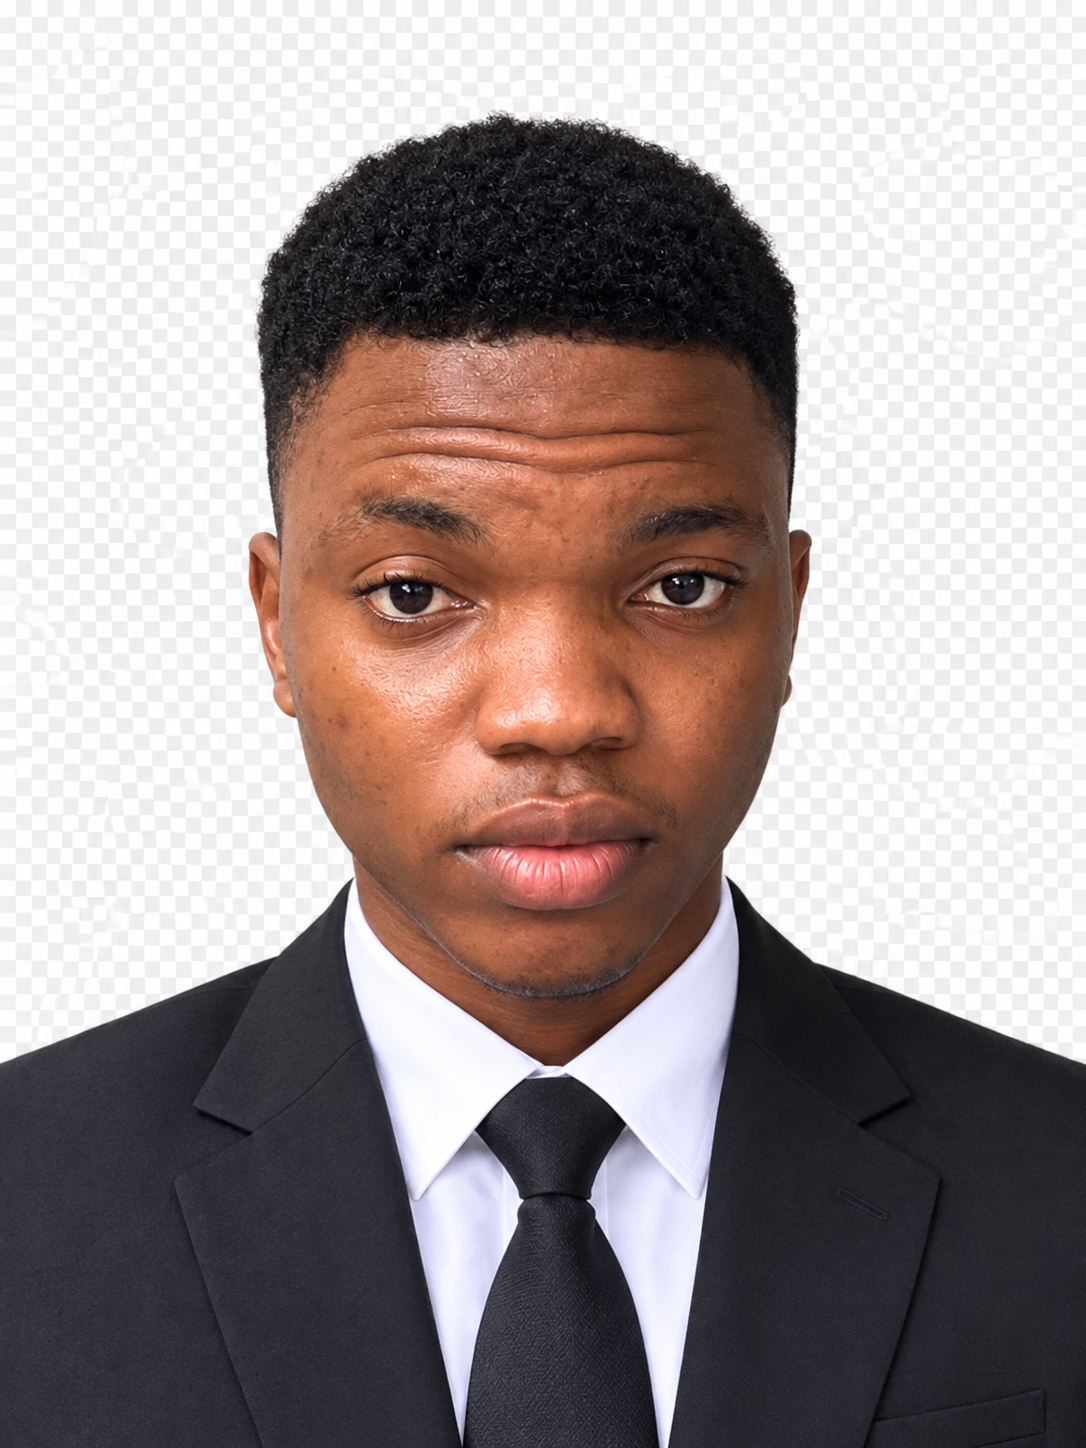
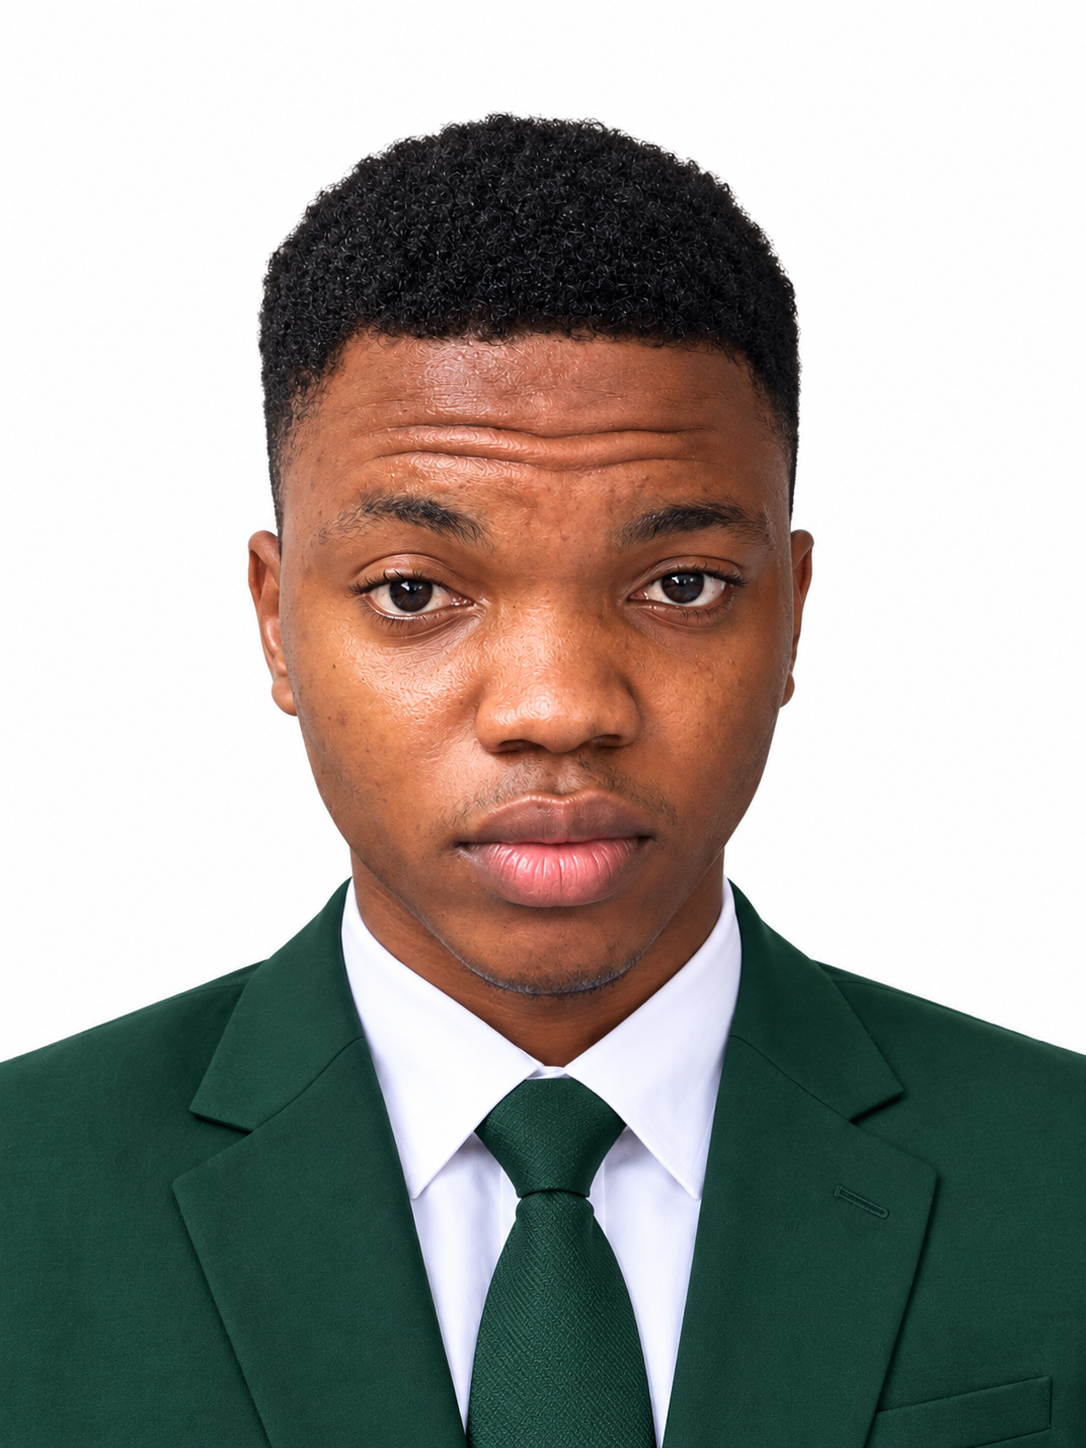
Fix remaining mentor images

diff --git a/index.html b/index.html
@@ -59,7 +59,7 @@
 
     <section class="work-section section-shell section-block"><div class="section-heading work-heading"><div><p class="eyebrow">A glimpse of what's possible</p><h2>See the work.<br><span>Feel the momentum.</span></h2></div><div class="slider-controls"><button class="slider-button previous" aria-label="Previous sample">←</button><button class="slider-button next" aria-label="Next sample">→</button><p><span class="slide-current">01</span> / 03</p></div></div><div class="slider-window"><div class="slides"><article class="slide slide-design"><div class="slide-copy"><p class="slide-kicker">STUDENT SHOWCASE / GRAPHIC DESIGN</p><h3>Good ideas<br>deserve a<br><i>great shape.</i></h3><span class="slide-tag">Poster design · Cohort 04</span></div><div class="slide-art design-art"><span>CREATE<br>MORE<br>OF WHAT<br>MATTERS</span><div></div></div></article><article class="slide slide-trading"><div class="slide-copy"><p class="slide-kicker">STUDENT SHOWCASE / FOREX TRADING</p><h3>Read the<br>pattern.<br><i>Make the move.</i></h3><span class="slide-tag">Market analysis · Cohort 03</span></div><div class="slide-art trading-art"><div class="chart-line"></div><span>EUR / USD<br><b>+2.84%</b></span></div></article><article class="slide slide-code"><div class="slide-copy"><p class="slide-kicker">STUDENT SHOWCASE / FRONTEND CODE</p><h3>Ideas become<br>real when<br><i>you ship.</i></h3><span class="slide-tag">Portfolio build · Cohort 02</span></div><div class="slide-art code-art"><code>&lt;section class="future"&gt;<br>&nbsp; buildSomething();<br>&nbsp; keepGoing();<br>&lt;/section&gt;</code><span>01 / 03</span></div></article></div></div></section>
 
-    <section id="about" class="about-section section-shell section-block"><div class="about-intro"><p class="eyebrow">More than a class</p><h2>Meet your<br><span>mentors.</span></h2><p>CreateX Tech is guided by practitioners who believe that practical skills can change the direction of a life. Get feedback from people who are actively making, building, and learning too.</p><a class="text-link" href="#register">Come build with us <span>→</span></a><div class="about-stats"><div><strong>5</strong><span>mentor<br>profiles</span></div><div><strong>4</strong><span>focused<br>courses</span></div><div><strong>1:1</strong><span>mentor<br>feedback</span></div></div></div><div class="mentor-grid"><article class="mentor-card mentor-featured"><div class="mentor-photo"><img src="images/mentors/mohammed jamiu.jpeg" alt="Photo of Mr. Mohammed Jamiu" onerror="this.style.display='none'"><span>MJ</span></div><div class="mentor-details"><p class="mentor-role">Owner / Founder</p><h3>Mr. Mohammed Jamiu</h3><p>A tech analyst who specializes in graphic design, including motion design and social media design, as well as frontend coding.</p></div></article><article class="mentor-card"><div class="mentor-photo"><img src="images/mentors/adesanwo ambrose.png" alt="Photo of Mr. Adesanwo Ambrose Oreoluwa" onerror="this.style.display='none'"><span>AO</span></div><div class="mentor-details"><p class="mentor-role">Coding Tutor ? Frontend / Backend</p><h3>Mr. Adesanwo Ambrose Oreoluwa</h3><p>A frontend and backend developer who turns complex ideas into clear, useful digital products. He enjoys helping beginners build strong foundations and guiding learners through projects they can confidently show.</p></div></article><article class="mentor-card"><div class="mentor-photo"><img src="images/mentors/sanni arafat.png" alt="Photo of Mr. Sanni Arafat Mohammed" onerror="this.style.display='none'"><span>SA</span></div><div class="mentor-details"><p class="mentor-role">Forex Trading / Coding Tutor</p><h3>Mr. Sanni Arafat Mohammed</h3><p>A practical technology tutor with experience across frontend development, backend systems, and digital assets. He teaches learners to think clearly, manage risk, and turn technical knowledge into useful projects.</p></div></article><article class="mentor-card"><div class="mentor-photo"><img src="images/mentors/bodunrin.jpeg" alt="Photo of Mr. Musbaudeen Fathiu Bodunrin" onerror="this.style.display='none'"><span>MF</span></div><div class="mentor-details"><p class="mentor-role">Forex Trading / Frontend Tutor</p><h3>Mr. Musbaudeen Fathiu Bodunrin</h3><p>A frontend expert with successful projects who also holds a certificate in crypto trading.</p></div></article><article class="mentor-card"><div class="mentor-photo"><img src="images/mentors/mentor-five.jpg" alt="Photo of Mentor Five" onerror="this.style.display='none'"><span>M5</span></div><div class="mentor-details"><p class="mentor-role">Mentor profile</p><h3>Mentor Five</h3><p>Add a short biography here when this mentor's details are ready.</p></div></article></div></section>
+    <section id="about" class="about-section section-shell section-block"><div class="about-intro"><p class="eyebrow">More than a class</p><h2>Meet your<br><span>mentors.</span></h2><p>CreateX Tech is guided by practitioners who believe that practical skills can change the direction of a life. Get feedback from people who are actively making, building, and learning too.</p><a class="text-link" href="#register">Come build with us <span>→</span></a><div class="about-stats"><div><strong>5</strong><span>mentor<br>profiles</span></div><div><strong>4</strong><span>focused<br>courses</span></div><div><strong>1:1</strong><span>mentor<br>feedback</span></div></div></div><div class="mentor-grid"><article class="mentor-card mentor-featured"><div class="mentor-photo"><img src="images/mentors/mohammed jamiu.jpeg" alt="Photo of Mr. Mohammed Jamiu" onerror="this.style.display='none'"><span>MJ</span></div><div class="mentor-details"><p class="mentor-role">Owner / Founder</p><h3>Mr. Mohammed Jamiu</h3><p>A tech analyst who specializes in graphic design, including motion design and social media design, as well as frontend coding.</p></div></article><article class="mentor-card"><div class="mentor-photo"><img src="images/mentors/adesanwo ambrose.png" alt="Photo of Mr. Adesanwo Ambrose Oreoluwa" onerror="this.style.display='none'"><span>AO</span></div><div class="mentor-details"><p class="mentor-role">Coding Tutor · Frontend / Backend</p><h3>Mr. Adesanwo Ambrose Oreoluwa</h3><p>A frontend and backend developer who turns complex ideas into clear, useful digital products. He enjoys helping beginners build strong foundations and guiding learners through projects they can confidently show.</p></div></article><article class="mentor-card"><div class="mentor-photo"><img src="images/mentors/sanni arafat.png" alt="Photo of Mr. Sanni Arafat Mohammed" onerror="this.style.display='none'"><span>SA</span></div><div class="mentor-details"><p class="mentor-role">Forex Trading / Coding Tutor</p><h3>Mr. Sanni Arafat Mohammed</h3><p>A practical technology tutor with experience across frontend development, backend systems, and digital assets. He teaches learners to think clearly, manage risk, and turn technical knowledge into useful projects.</p></div></article><article class="mentor-card"><div class="mentor-photo"><img src="images/mentors/musbaudeen fathiu.png" alt="Photo of Mr. Musbaudeen Fathiu Bodunrin" onerror="this.style.display='none'"><span>MF</span></div><div class="mentor-details"><p class="mentor-role">Forex Trading / Frontend Tutor</p><h3>Mr. Musbaudeen Fathiu Bodunrin</h3><p>A frontend expert with successful projects who also holds a certificate in crypto trading.</p></div></article><article class="mentor-card"><div class="mentor-photo"><img src="images/mentors/mentor-five.jpg" alt="Photo of Mentor Five" onerror="this.style.display='none'"><span>M5</span></div><div class="mentor-details"><p class="mentor-role">Mentor profile</p><h3>Mentor Five</h3><p>Add a short biography here when this mentor's details are ready.</p></div></article></div></section>
 
     <section id="register" class="register-section section-shell section-block"><div class="register-heading"><p class="eyebrow">Your next move</p><h2>Ready to<br><span>start?</span></h2><p>Tell us a little about yourself and we will send the next cohort details to your inbox.</p></div><form id="registration-form" class="registration-form"><div class="form-row"><label>Full name<input type="text" name="fullname" placeholder="e.g. Ada Lovelace" required></label><label>Email address<input type="email" name="email" placeholder="you@email.com" required></label></div><div class="form-row"><label>WhatsApp number<input type="tel" name="whatsapp" placeholder="e.g. 08012345678" inputmode="tel" required></label><label>Home address<input type="text" name="address" placeholder="Where are you joining from?" required></label></div><div class="form-row"><label>Course interested in<select name="course" required><option value="" disabled selected>Choose a course</option><option>Graphic Design</option><option>Forex Trading</option><option>Coding (Frontend)</option><option>Coding (Backend)</option></select></label><label>Experience level<select name="experience" required><option value="" disabled selected>Choose your level</option><option>Beginner</option><option>Intermediate</option><option>Professional</option></select></label></div><button class="button button-dark" type="submit">Complete registration <span>↗</span></button><p class="form-note">Your details are used to confirm your place and send CreateX Tech updates on WhatsApp.</p><div class="form-success" role="status" aria-live="polite"></div></form></section>
   </main>

diff --git a/home.html b/home.html
@@ -41,7 +41,7 @@
       </div>
     </section>
 
-    <section id="about" class="about-section section-shell section-block"><div class="about-intro"><p class="eyebrow">More than a class</p><h2>Meet your<br><span>mentors.</span></h2><p>CreateX Tech is guided by practitioners who believe that practical skills can change the direction of a life. Get feedback from people who are actively making, building, and learning too.</p><a class="text-link" href="#register">Come build with us <span>→</span></a><div class="about-stats"><div><strong>5</strong><span>mentor<br>profiles</span></div><div><strong>4</strong><span>focused<br>courses</span></div><div><strong>1:1</strong><span>mentor<br>feedback</span></div></div></div><div class="mentor-grid"><article class="mentor-card mentor-featured"><div class="mentor-photo"><img src="images/mentors/mohammed jamiu.jpeg" alt="Photo of Mr. Mohammed Jamiu" onerror="this.style.display='none'"><span>MJ</span></div><div class="mentor-details"><p class="mentor-role">Owner / Founder</p><h3>Mr. Mohammed Jamiu</h3><p>A tech analyst who specializes in graphic design, including motion design and social media design, as well as frontend coding.</p></div></article><article class="mentor-card"><div class="mentor-photo"><img src="images/mentors/adesanwo ambrose.png" alt="Photo of Mr. Adesanwo Ambrose Oreoluwa" onerror="this.style.display='none'"><span>AO</span></div><div class="mentor-details"><p class="mentor-role">Coding Tutor · Frontend / Backend</p><h3>Mr. Adesanwo Ambrose Oreoluwa</h3><p>A frontend and backend developer who turns complex ideas into clear, useful digital products. He enjoys helping beginners build strong foundations and guiding learners through projects they can confidently show.</p></div></article><article class="mentor-card"><div class="mentor-photo"><img src="images/mentors/sanni arafat.png" alt="Photo of Mr. Sanni Arafat Mohammed" onerror="this.style.display='none'"><span>SA</span></div><div class="mentor-details"><p class="mentor-role">Forex Trading / Coding Tutor</p><h3>Mr. Sanni Arafat Mohammed</h3><p>A practical technology tutor with experience across frontend development, backend systems, and digital assets. He teaches learners to think clearly, manage risk, and turn technical knowledge into useful projects.</p></div></article><article class="mentor-card"><div class="mentor-photo"><img src="images/mentors/bodunrin.jpeg" alt="Photo of Mr. Musbaudeen Fathiu Bodunrin" onerror="this.style.display='none'"><span>MF</span></div><div class="mentor-details"><p class="mentor-role">Forex Trading / Frontend Tutor</p><h3>Mr. Musbaudeen Fathiu Bodunrin</h3><p>A frontend expert with successful projects who also holds a certificate in crypto trading.</p></div></article></div></section>
+    <section id="about" class="about-section section-shell section-block"><div class="about-intro"><p class="eyebrow">More than a class</p><h2>Meet your<br><span>mentors.</span></h2><p>CreateX Tech is guided by practitioners who believe that practical skills can change the direction of a life. Get feedback from people who are actively making, building, and learning too.</p><a class="text-link" href="#register">Come build with us <span>→</span></a><div class="about-stats"><div><strong>5</strong><span>mentor<br>profiles</span></div><div><strong>4</strong><span>focused<br>courses</span></div><div><strong>1:1</strong><span>mentor<br>feedback</span></div></div></div><div class="mentor-grid"><article class="mentor-card mentor-featured"><div class="mentor-photo"><img src="images/mentors/mohammed jamiu.jpeg" alt="Photo of Mr. Mohammed Jamiu" onerror="this.style.display='none'"><span>MJ</span></div><div class="mentor-details"><p class="mentor-role">Owner / Founder</p><h3>Mr. Mohammed Jamiu</h3><p>A tech analyst who specializes in graphic design, including motion design and social media design, as well as frontend coding.</p></div></article><article class="mentor-card"><div class="mentor-photo"><img src="images/mentors/adesanwo ambrose.png" alt="Photo of Mr. Adesanwo Ambrose Oreoluwa" onerror="this.style.display='none'"><span>AO</span></div><div class="mentor-details"><p class="mentor-role">Coding Tutor · Frontend / Backend</p><h3>Mr. Adesanwo Ambrose Oreoluwa</h3><p>A frontend and backend developer who turns complex ideas into clear, useful digital products. He enjoys helping beginners build strong foundations and guiding learners through projects they can confidently show.</p></div></article><article class="mentor-card"><div class="mentor-photo"><img src="images/mentors/sanni arafat.png" alt="Photo of Mr. Sanni Arafat Mohammed" onerror="this.style.display='none'"><span>SA</span></div><div class="mentor-details"><p class="mentor-role">Forex Trading / Coding Tutor</p><h3>Mr. Sanni Arafat Mohammed</h3><p>A practical technology tutor with experience across frontend development, backend systems, and digital assets. He teaches learners to think clearly, manage risk, and turn technical knowledge into useful projects.</p></div></article><article class="mentor-card"><div class="mentor-photo"><img src="images/mentors/musbaudeen fathiu.png" alt="Photo of Mr. Musbaudeen Fathiu Bodunrin" onerror="this.style.display='none'"><span>MF</span></div><div class="mentor-details"><p class="mentor-role">Forex Trading / Frontend Tutor</p><h3>Mr. Musbaudeen Fathiu Bodunrin</h3><p>A frontend expert with successful projects who also holds a certificate in crypto trading.</p></div></article></div></section>
 
     <section id="register" class="register-section section-shell section-block"><div class="register-heading"><p class="eyebrow">Your next move</p><h2>Ready to<br><span>start?</span></h2><p>Tell us a little about yourself and we will send the next cohort details to your inbox.</p></div><form id="registration-form" class="registration-form"><div class="form-row"><label>Full name<input type="text" name="fullname" placeholder="e.g. Ada Lovelace" required></label><label>Email address<input type="email" name="email" placeholder="you@email.com" required></label></div><div class="form-row"><label>WhatsApp number<input type="tel" name="whatsapp" placeholder="e.g. 08012345678" inputmode="tel" required></label><label>Home address<input type="text" name="address" placeholder="Where are you joining from?" required></label></div><div class="form-row"><label>Course interested in<select name="course" required><option value="" disabled selected>Choose a course</option><option>Graphic Design</option><option>Forex Trading</option><option>Coding (Frontend)</option><option>Coding (Backend)</option></select></label><label>Experience level<select name="experience" required><option value="" disabled selected>Choose your level</option><option>Beginner</option><option>Intermediate</option><option>Professional</option></select></label></div><button class="button button-dark" type="submit">Complete registration <span>↗</span></button><p class="form-note">Your details are used to confirm your place and send CreateX Tech updates on WhatsApp.</p><div class="form-success" role="status" aria-live="polite"></div></form></section>
   </main>

diff --git a/script.js b/script.js
@@ -221,14 +221,14 @@ const mentorProfiles = [
 		role: 'Forex Trading / Frontend Tutor',
 		bio: 'A frontend expert with successful projects who also holds a certificate in crypto trading.',
 		initials: 'MF',
-		image: 'images/mentors/bodunrin.jpeg'
+		image: 'images/mentors/musbaudeen fathiu.png'
 	},
 	{
 		name: 'Mr. Hassan Ridwan (Maxam)',
 		role: 'Professional Graphic Designer',
 		bio: 'A professional graphic designer, print manager, creative expert, and colour mix expert with a successful record in the graphic industry.',
 		initials: 'HR',
-		image: 'images/mentors/maxam.jpeg'
+		image: 'images/mentors/maxam..png'
 	}
 ];
 
